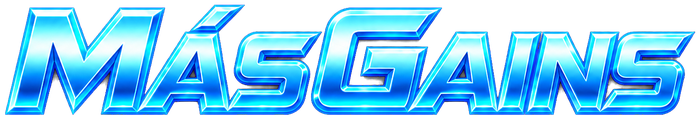
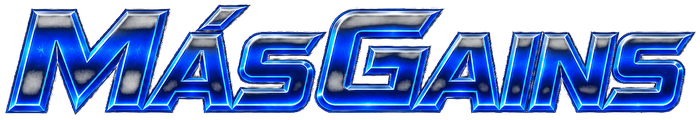
Gym: AI workout planner + training preferences; deeper electric wordmark
- New AI Workout Planner (from the Plans sheet): choose muscle groups or a
  Push/Pull/Legs/Upper/Lower/Full split, focus and exercise count. It sends the
  model your training history (recent sessions, top sets, freshness per area),
  goal direction, age, experience, equipment and preferences, and returns a
  structured session (ordered exercises, sets, reps, rest, rationale). Suggested
  names are matched to the exercise DB via the smart search, then you can Start
  it (loads into today's workout), Save as plan, or Regenerate.
- Profile gains training experience, available-equipment chips and a
  preferences/avoid note that feed the planner.
- Recoloured the electric wordmark to the deeper blue of the badge; SW cache
  bumped to mg-v3.

diff --git a/index.html b/index.html
@@ -482,6 +482,12 @@ if("serviceWorker" in navigator && location.protocol.indexOf("http")===0){
   .theme-select{flex:1;min-width:0;background:var(--surface-2);border:1px solid var(--border);color:var(--text);border-radius:11px;padding:12px;font-family:var(--ff-ui);font-size:15px;font-weight:600;outline:none;cursor:pointer;-webkit-appearance:none;appearance:none;
     background-image:linear-gradient(45deg,transparent 50%,var(--muted) 50%),linear-gradient(135deg,var(--muted) 50%,transparent 50%);background-position:calc(100% - 18px) center,calc(100% - 13px) center;background-size:5px 5px,5px 5px;background-repeat:no-repeat}
   .theme-select:focus{border-color:color-mix(in srgb,var(--protein) 55%,var(--border))}
+  .chips{display:flex;flex-wrap:wrap;gap:7px}
+  .chip{background:var(--surface-2);border:1px solid var(--border);color:var(--muted);border-radius:999px;padding:8px 13px;font-family:var(--ff-ui);font-weight:600;font-size:12.5px;cursor:pointer;-webkit-tap-highlight-color:transparent}
+  .chip.on{background:color-mix(in srgb,var(--protein) 16%,transparent);border-color:color-mix(in srgb,var(--protein) 55%,var(--border));color:var(--protein)}
+  .chip:active{transform:scale(.97)}
+  #manageSheet textarea,.field textarea,.sheet textarea{width:100%;box-sizing:border-box;background:var(--surface-2);border:1px solid var(--border);color:var(--text);border-radius:11px;padding:11px;font-family:var(--ff-ui);font-size:15px;line-height:1.4;outline:none;resize:vertical}
+  #manageSheet textarea:focus,.sheet textarea:focus{border-color:color-mix(in srgb,var(--protein) 55%,var(--border))}
   .theme-sw{position:relative;width:38px;height:38px;border-radius:9px;flex:none;overflow:hidden;border:1px solid rgba(255,255,255,.08);display:block}
   .theme-sw i{position:absolute;border-radius:2px;display:block}
   .theme-sw i.a{width:16px;height:5px;left:7px;bottom:13px}
@@ -916,6 +922,27 @@ if("serviceWorker" in navigator && location.protocol.indexOf("http")===0){
   #plansList .plan-item .pi-start{flex:none;background:var(--grad);color:var(--on-accent);border:none;border-radius:10px;padding:9px 15px;font-family:var(--ff-ui);font-weight:700;font-size:12px;letter-spacing:.03em;text-transform:uppercase;cursor:pointer;box-shadow:var(--glow)}
   #plansList .plan-item .pi-start:active{filter:brightness(.94)}
   #plansList .plan-empty{text-align:center;color:var(--faint);font-size:12.5px;padding:14px 0;line-height:1.6}
+  /* AI planner */
+  .ai-plan-cta{width:100%;display:flex;align-items:center;gap:12px;background:linear-gradient(120deg,color-mix(in srgb,var(--protein) 20%,var(--surface)),var(--surface));border:1px solid color-mix(in srgb,var(--protein) 45%,var(--border));border-radius:14px;padding:13px 14px;cursor:pointer;text-align:left;margin-bottom:12px;-webkit-tap-highlight-color:transparent}
+  .ai-plan-cta:active{filter:brightness(.97)}
+  .ai-plan-cta .apc-spark{flex:none;width:32px;height:32px;border-radius:9px;display:grid;place-items:center;background:var(--grad);color:var(--on-accent);font-size:16px;box-shadow:var(--glow)}
+  .ai-plan-cta .apc-txt{flex:1;min-width:0;display:flex;flex-direction:column;gap:2px}
+  .ai-plan-cta .apc-txt b{font-size:14px;font-weight:700;color:var(--text)}
+  .ai-plan-cta .apc-txt i{font-style:normal;font-size:11.5px;color:var(--muted)}
+  .ai-plan-cta .apc-go{flex:none;color:var(--protein);font-size:22px;font-weight:700}
+  .apl-lbl{display:block;font-size:11px;letter-spacing:.05em;text-transform:uppercase;color:var(--muted);font-weight:700;margin:0 2px 8px}
+  #aiPlanResult .apr-head{margin:0 2px 10px}
+  #aiPlanResult .apr-title{font-family:var(--ff-ui);font-weight:800;font-size:18px;color:var(--text)}
+  #aiPlanResult .apr-why{font-size:12.5px;color:var(--muted);line-height:1.45;margin-top:5px}
+  .apr-ex{display:flex;gap:11px;background:var(--surface);border:1px solid var(--border);border-radius:13px;padding:11px 12px;margin-bottom:8px}
+  .apr-ex .apr-n{flex:none;width:24px;height:24px;border-radius:7px;background:var(--surface-2);color:var(--muted);font-family:var(--ff-num);font-weight:700;font-size:12px;display:grid;place-items:center;margin-top:1px}
+  .apr-ex .apr-main{flex:1;min-width:0}
+  .apr-ex .apr-name{font-weight:700;font-size:14px;letter-spacing:-.01em;white-space:nowrap;overflow:hidden;text-overflow:ellipsis}
+  .apr-ex .apr-sets{font-family:var(--ff-num);font-size:12px;color:var(--protein);font-weight:700;margin-top:2px}
+  .apr-ex .apr-note{font-size:11.5px;color:var(--muted);margin-top:3px;line-height:1.4}
+  .apr-ex .apr-swap{flex:none;color:var(--faint);font-size:10px;font-family:var(--ff-num);align-self:center}
+  .apr-actions{display:grid;grid-template-columns:1fr 1fr;gap:9px;margin-top:14px}
+  .apr-actions .ghost{margin:0}
   #plansNew{width:100%;background:transparent;border:1px dashed var(--border);color:var(--protein);border-radius:12px;padding:13px;font-family:var(--ff-ui);font-weight:700;font-size:13px;cursor:pointer;margin-top:10px;letter-spacing:.02em}
   #plansNew:active{background:var(--surface-2)}
   #planExRows{display:flex;flex-direction:column;gap:7px;margin-top:2px}
@@ -1884,7 +1911,24 @@ if("serviceWorker" in navigator && location.protocol.indexOf("http")===0){
           </select></div>
         </div>
         <div class="field" style="margin-top:8px"><label>Goal weight (kg) - optional</label><input type="number" inputmode="decimal" id="pGoalW" placeholder="e.g. 82"></div>
-        <div class="mono-note" style="text-align:left;margin:8px 2px 10px">Saving weight also logs it to today on the Body tab. Sex and activity drive the maintenance estimate.</div>
+        <div class="field" style="margin-top:10px"><label>Training experience</label><select id="pExp">
+          <option value="beginner">Beginner</option>
+          <option value="intermediate" selected>Intermediate</option>
+          <option value="advanced">Advanced</option>
+        </select></div>
+        <div style="margin-top:12px"><label style="display:block;font-size:11px;letter-spacing:.04em;text-transform:uppercase;color:var(--muted);font-weight:700;margin-bottom:7px">Equipment you have</label>
+          <div class="chips" id="pEquip">
+            <button type="button" class="chip" data-equip="barbell">Barbell</button>
+            <button type="button" class="chip" data-equip="dumbbell">Dumbbells</button>
+            <button type="button" class="chip" data-equip="machine">Machines</button>
+            <button type="button" class="chip" data-equip="cable">Cables</button>
+            <button type="button" class="chip" data-equip="bodyweight">Bodyweight</button>
+            <button type="button" class="chip" data-equip="kettlebell">Kettlebells</button>
+            <button type="button" class="chip" data-equip="bands">Bands</button>
+          </div>
+        </div>
+        <div class="field" style="margin-top:12px"><label>Preferences / anything to avoid</label><textarea id="pTrainNotes" rows="2" placeholder="e.g. no heavy lower-back loading, prefer machines for legs, bad right shoulder"></textarea></div>
+        <div class="mono-note" style="text-align:left;margin:8px 2px 10px">Saving weight also logs it to today on the Body tab. Experience, equipment and preferences guide the AI workout planner.</div>
         <button type="button" class="ghost" id="saveProfile">Save profile</button>
         <button type="button" class="ghost" id="obReplay" style="margin-top:8px">Run setup walkthrough</button>
       </div>
@@ -2141,9 +2185,64 @@ if("serviceWorker" in navigator && location.protocol.indexOf("http")===0){
     <button class="close" data-close>Close</button>
   </div>
   <div class="sheet-body">
+    <button type="button" class="ai-plan-cta" id="aiPlanOpen"><span class="apc-spark">✦</span><span class="apc-txt"><b>Build a plan with AI</b><i>Tailored to your history, goals and preferences</i></span><span class="apc-go">›</span></button>
     <div class="mono-note" style="text-align:left;margin:0 4px 10px">Build a plan once - its exercises, sets and target reps. Then load it onto any day and just punch in the weight.</div>
     <div id="plansList"></div>
     <button id="plansNew">+ New plan</button>
+  </div>
+</div>
+
+<div class="sheet" id="aiPlanSheet" role="dialog" aria-modal="true">
+  <div class="grab"></div>
+  <div class="sheet-head">
+    <h2>AI Workout Planner</h2>
+    <button class="close" data-close>Close</button>
+  </div>
+  <div class="sheet-body">
+    <div id="aiPlanSetup">
+      <div class="mono-note" style="text-align:left;margin:0 2px 12px">Pick what you want to train. The planner reads your past workouts, goals, age and preferences (set in Profile) and builds today's session - exercises, order, sets and reps.</div>
+      <label class="apl-lbl">Quick split</label>
+      <div class="chips" id="aiPresets" style="margin-bottom:14px">
+        <button type="button" class="chip" data-preset="push">Push</button>
+        <button type="button" class="chip" data-preset="pull">Pull</button>
+        <button type="button" class="chip" data-preset="legs">Legs</button>
+        <button type="button" class="chip" data-preset="upper">Upper</button>
+        <button type="button" class="chip" data-preset="lower">Lower</button>
+        <button type="button" class="chip" data-preset="full">Full body</button>
+      </div>
+      <label class="apl-lbl">Muscle groups</label>
+      <div class="chips" id="aiParts" style="margin-bottom:14px">
+        <button type="button" class="chip" data-part="chest">Chest</button>
+        <button type="button" class="chip" data-part="back">Back</button>
+        <button type="button" class="chip" data-part="shoulders">Shoulders</button>
+        <button type="button" class="chip" data-part="biceps">Biceps</button>
+        <button type="button" class="chip" data-part="triceps">Triceps</button>
+        <button type="button" class="chip" data-part="quads">Quads</button>
+        <button type="button" class="chip" data-part="hamstrings">Hamstrings</button>
+        <button type="button" class="chip" data-part="glutes">Glutes</button>
+        <button type="button" class="chip" data-part="calves">Calves</button>
+        <button type="button" class="chip" data-part="core">Core</button>
+      </div>
+      <div style="display:grid;grid-template-columns:1fr 1fr;gap:10px">
+        <div class="field"><label>Focus</label><select id="aiFocus">
+          <option value="auto" selected>Auto (from goal)</option>
+          <option value="strength">Strength</option>
+          <option value="hypertrophy">Hypertrophy</option>
+          <option value="endurance">Endurance</option>
+        </select></div>
+        <div class="field"><label>Exercises</label><select id="aiCount">
+          <option value="auto" selected>Auto</option>
+          <option value="4">4</option>
+          <option value="5">5</option>
+          <option value="6">6</option>
+          <option value="7">7</option>
+          <option value="8">8</option>
+        </select></div>
+      </div>
+      <div class="photo-tray-status" id="aiPlanStatus" style="margin:10px 2px 0"></div>
+      <button type="button" class="primary" id="aiPlanBuild" style="margin-top:14px">Build my plan</button>
+    </div>
+    <div id="aiPlanResult" hidden></div>
   </div>
 </div>
 
@@ -2753,7 +2852,7 @@ if("serviceWorker" in navigator && location.protocol.indexOf("http")===0){
 
   /* ---------- sheet open/close ---------- */
   var backdrop=document.getElementById("backdrop");
-  var ALL_SHEETS=["addSheet","manageSheet","editSheet","statsSheet","measureSheet","scheduleSheet","exSheet","exHistSheet","plansSheet","planEditSheet","stackSheet","stackItemSheet","formSheet"];
+  var ALL_SHEETS=["addSheet","manageSheet","editSheet","statsSheet","measureSheet","scheduleSheet","exSheet","exHistSheet","plansSheet","planEditSheet","aiPlanSheet","stackSheet","stackItemSheet","formSheet"];
   function openSheet(id){
     ALL_SHEETS.forEach(function(s){ var el=document.getElementById(s); if(el) el.classList.remove("open"); });
     backdrop.classList.add("open");
@@ -3012,7 +3111,13 @@ if("serviceWorker" in navigator && location.protocol.indexOf("http")===0){
     document.getElementById("pSex").value = profile.sex || "male";
     document.getElementById("pAct").value = String(profile.activity || 1.725);
     var gw=document.getElementById("pGoalW"); if(gw) gw.value = (profile.goalWeight!=null)?profile.goalWeight:"";
+    var exp=document.getElementById("pExp"); if(exp) exp.value=profile.experience||"intermediate";
+    var eq=document.getElementById("pEquip");
+    if(eq){ var have=profile.equip||["barbell","dumbbell","machine","cable","bodyweight"];
+      [].forEach.call(eq.querySelectorAll("[data-equip]"),function(b){ b.classList.toggle("on", have.indexOf(b.getAttribute("data-equip"))>=0); }); }
+    var tn=document.getElementById("pTrainNotes"); if(tn) tn.value=profile.trainNotes||"";
   }
+  (function(){ var eq=document.getElementById("pEquip"); if(eq) eq.addEventListener("click",function(e){ var b=e.target.closest("[data-equip]"); if(b) b.classList.toggle("on"); }); })();
   document.getElementById("saveProfile").addEventListener("click",function(){
     var h=r0(num(document.getElementById("pHeight").value)), a=r0(num(document.getElementById("pAge").value));
     if(h>0) profile.height=h;
@@ -3020,6 +3125,10 @@ if("serviceWorker" in navigator && location.protocol.indexOf("http")===0){
     profile.sex=document.getElementById("pSex").value;
     profile.activity=parseFloat(document.getElementById("pAct").value)||1.725;
     var gw=num(document.getElementById("pGoalW").value); profile.goalWeight = gw>0 ? r1(gw) : null;
+    var exp=document.getElementById("pExp"); if(exp) profile.experience=exp.value;
+    var eq=document.getElementById("pEquip");
+    if(eq) profile.equip=[].filter.call(eq.querySelectorAll("[data-equip]"),function(b){return b.classList.contains("on");}).map(function(b){return b.getAttribute("data-equip");});
+    var tn=document.getElementById("pTrainNotes"); if(tn) profile.trainNotes=tn.value.trim();
     saveProfile();
     var w=num(document.getElementById("pWeight").value);
     if(w>0){ var today=keyOf(new Date()); if(!body[today]) body[today]={}; body[today].weight=r1(w); saveBody(); }
@@ -4941,6 +5050,142 @@ if("serviceWorker" in navigator && location.protocol.indexOf("http")===0){
     if(!exs.length) return;
     openPlanEditor(null, {name:"", exercises:exs});   // pre-filled editor: name it, tweak, save
   }
+  /* ---------- AI workout planner ---------- */
+  var EX_BP=(function(){ var m={}; EX_DB.forEach(function(r){ m[r[0].toLowerCase()]=r[1]; }); return m; })();
+  var AI_PRESET_PARTS={
+    push:["chest","shoulders","triceps"], pull:["back","biceps"],
+    legs:["quads","hamstrings","glutes","calves"],
+    upper:["chest","back","shoulders","biceps","triceps"],
+    lower:["quads","hamstrings","glutes","calves"],
+    full:["chest","back","shoulders","quads","hamstrings","core"]
+  };
+  var aiPlanParts=[], aiPlanDraft=null;
+  function aiSetStatus(m,cls){ var el=document.getElementById("aiPlanStatus"); if(el){ el.textContent=m||""; el.className="photo-tray-status"+(cls?(" "+cls):""); } }
+  function aiRepsNum(s){ var m=String(s).match(/\d+/); return m?parseInt(m[0],10):10; }
+  // best DB match for an AI-suggested name (reuses the smart exercise search scorer)
+  function bestExMatch(name){
+    var q=String(name||"").toLowerCase().trim(); if(!q) return name;
+    var toks=exTokens(q); if(!toks.length) toks=[q];
+    var best=name, bestS=-1;
+    for(var i=0;i<EX_DB_NAMES.length;i++){
+      var n=EX_DB_NAMES[i], hay=n.toLowerCase(), words=hay.split(/[^a-z0-9]+/).filter(Boolean);
+      var s=exScore(hay, words, toks, q);
+      if(s>bestS){ bestS=s; best=n; }
+    }
+    return bestS>=95 ? best : name;
+  }
+  function aiTrainingSummary(){
+    var keys=Object.keys(workouts).filter(function(k){ return (workouts[k].exercises||[]).length; }).sort();
+    if(!keys.length) return "No previous workouts logged yet - this is a fresh start.";
+    var recent=keys.slice(-10), lines=[];
+    recent.slice().reverse().forEach(function(k){
+      var exs=(workouts[k].exercises||[]).map(function(e){
+        var done=(e.sets||[]).filter(function(s){return s.done;}); var use=done.length?done:(e.sets||[]);
+        var top=null; use.forEach(function(s){ var w=num(s.w),r=num(s.reps); if(w>0&&(!top||w>top.w)) top={w:w,r:r}; });
+        return e.name+(top?(" "+top.w+"x"+top.r):"");
+      });
+      lines.push(k+": "+exs.join(", "));
+    });
+    var today=new Date(); today.setHours(0,0,0,0); var lastByBp={};
+    keys.forEach(function(k){ (workouts[k].exercises||[]).forEach(function(e){ var bp=EX_BP[e.name.toLowerCase()]; if(bp && (!lastByBp[bp]||k>lastByBp[bp])) lastByBp[bp]=k; }); });
+    var fresh=Object.keys(lastByBp).map(function(bp){ return bp+" "+Math.round((today-dateFromKey(lastByBp[bp]))/86400000)+"d ago"; });
+    return "Recent sessions (newest first):\n"+lines.join("\n")+(fresh.length?("\n\nLast trained: "+fresh.join(", ")):"");
+  }
+  function aiGoalLine(){
+    try{ var r=recommendTargets("steady"); var dir=r.dir<0?"fat loss / cut":(r.dir>0?"lean muscle gain":"maintain / recomp");
+      return "Goal: "+dir+(r.goal!=null?(" toward "+r1(r.goal)+"kg"):"")+"."; }catch(e){ return ""; }
+  }
+  function aiBuildPrompt(){
+    var focus=document.getElementById("aiFocus").value, count=document.getElementById("aiCount").value;
+    var equip=(profile.equip&&profile.equip.length)?profile.equip.join(", "):"barbell, dumbbell, machine, cable, bodyweight";
+    var sys="You are an expert strength and hypertrophy coach building ONE gym session. "+
+      "Return ONLY strict minified JSON, no prose or markdown. Shape: "+
+      '{"name":"short session title","summary":"1-2 sentence rationale","exercises":[{"name":"standard exercise name","sets":number,"reps":"target e.g. 8-10 or 5","rest":"e.g. 90s","why":"short reason"}]}. '+
+      "Order compound/heavier lifts first, isolation later. Use common standard exercise names (so they map to a database). "+
+      "Only use equipment the athlete has. Respect their preferences and anything to avoid. Match sets/reps to the focus and experience level. Progress from their history without overtraining recently-worked areas.";
+    var user="Build today's session.\n"+
+      "Muscle groups: "+(aiPlanParts.length?aiPlanParts.join(", "):"balanced full body")+".\n"+
+      "Focus: "+focus+". Exercises: "+(count==="auto"?"pick a sensible number, usually 4-6":count)+".\n"+
+      "Athlete: age "+(profile.age!=null?profile.age:"unknown")+", sex "+(profile.sex||"unknown")+", experience "+(profile.experience||"intermediate")+". "+aiGoalLine()+"\n"+
+      "Equipment available: "+equip+".\n"+
+      (profile.trainNotes?("Preferences / avoid: "+profile.trainNotes+"\n"):"")+
+      "\nTraining history:\n"+aiTrainingSummary()+"\n\nReturn the JSON only.";
+    return {sys:sys, user:user};
+  }
+  function aiParsePlan(txt){
+    var raw=String(txt).replace(/```json/gi,"").replace(/```/g,"").trim();
+    var s=raw.indexOf("{"); if(s>=0) raw=raw.slice(s);
+    var e=raw.lastIndexOf("}"); if(e>=0) raw=raw.slice(0,e+1);
+    var o=null; try{ o=JSON.parse(raw); }catch(_){ o=null; }
+    if(!o||!o.exercises||!o.exercises.length) return null;
+    var exs=o.exercises.map(function(x){
+      var nm=bestExMatch(x.name);
+      return {name:nm, aiName:x.name, sets:Math.max(1,parseInt(x.sets,10)||3), reps:(x.reps!=null?String(x.reps):"10"), rest:x.rest||"", why:x.why||""};
+    });
+    return {name:o.name||"AI session", summary:o.summary||"", exercises:exs};
+  }
+  function aiRenderPlan(plan){
+    aiPlanDraft=plan;
+    var html="<div class='apr-head'><div class='apr-title'>"+esc(plan.name)+"</div>"+(plan.summary?"<div class='apr-why'>"+esc(plan.summary)+"</div>":"")+"</div>";
+    html+=plan.exercises.map(function(e,i){
+      var swap=(e.aiName && e.aiName.toLowerCase()!==e.name.toLowerCase())?"<span class='apr-swap'>matched</span>":"";
+      return "<div class='apr-ex'><span class='apr-n'>"+(i+1)+"</span><div class='apr-main'><div class='apr-name'>"+esc(e.name)+"</div>"+
+        "<div class='apr-sets'>"+e.sets+" × "+esc(e.reps)+(e.rest?(" · "+esc(e.rest)+" rest"):"")+"</div>"+
+        (e.why?"<div class='apr-note'>"+esc(e.why)+"</div>":"")+"</div>"+swap+"</div>";
+    }).join("");
+    html+="<div class='apr-actions'><button type='button' class='ghost' id='aiPlanRegen'>Regenerate</button><button type='button' class='ghost' id='aiPlanSave'>Save as plan</button></div>"+
+      "<button type='button' class='primary' id='aiPlanStart' style='margin-top:9px'>Start this workout</button>";
+    var box=document.getElementById("aiPlanResult"); box.innerHTML=html; box.hidden=false;
+    document.getElementById("aiPlanSetup").hidden=true;
+  }
+  function aiPlanToPlanObj(){
+    if(!aiPlanDraft) return null;
+    return {name:aiPlanDraft.name, exercises:aiPlanDraft.exercises.map(function(e){ return {name:e.name, sets:e.sets, reps:aiRepsNum(e.reps)}; })};
+  }
+  async function aiRunPlanner(){
+    document.getElementById("aiPlanResult").hidden=true;
+    document.getElementById("aiPlanSetup").hidden=false;
+    aiSetStatus("Building your plan…");
+    var btn=document.getElementById("aiPlanBuild"); if(btn){ btn.disabled=true; btn.textContent="Thinking…"; }
+    try{
+      var p=aiBuildPrompt();
+      var out=await aiComplete([{role:"user",content:p.user}], 900, p.sys);
+      if(out==null){ aiSetStatus("Add your OpenRouter API key in Settings → AI features.","err"); return; }
+      var plan=aiParsePlan(out);
+      if(!plan){ aiSetStatus("Couldn't read a plan from the response. Try again.","err"); return; }
+      aiSetStatus(""); aiRenderPlan(plan);
+    }catch(err){ aiSetStatus("Error: "+(err.message||err),"err"); }
+    finally{ if(btn){ btn.disabled=false; btn.textContent="Build my plan"; } }
+  }
+  function openAiPlanner(){
+    aiPlanParts=[]; aiPlanDraft=null;
+    var res=document.getElementById("aiPlanResult"); res.hidden=true; res.innerHTML="";
+    document.getElementById("aiPlanSetup").hidden=false;
+    [].forEach.call(document.querySelectorAll("#aiParts .chip, #aiPresets .chip"),function(c){ c.classList.remove("on"); });
+    aiSetStatus("");
+    openSheet("aiPlanSheet");
+  }
+  document.getElementById("aiPlanOpen").addEventListener("click", openAiPlanner);
+  document.getElementById("aiPresets").addEventListener("click", function(e){
+    var b=e.target.closest("[data-preset]"); if(!b) return;
+    var parts=AI_PRESET_PARTS[b.getAttribute("data-preset")]||[]; aiPlanParts=parts.slice();
+    [].forEach.call(document.querySelectorAll("#aiParts .chip"),function(c){ c.classList.toggle("on", parts.indexOf(c.getAttribute("data-part"))>=0); });
+    [].forEach.call(document.querySelectorAll("#aiPresets .chip"),function(c){ c.classList.toggle("on", c===b); });
+  });
+  document.getElementById("aiParts").addEventListener("click", function(e){
+    var b=e.target.closest("[data-part]"); if(!b) return;
+    var part=b.getAttribute("data-part"), i=aiPlanParts.indexOf(part);
+    if(i>=0) aiPlanParts.splice(i,1); else aiPlanParts.push(part);
+    b.classList.toggle("on", aiPlanParts.indexOf(part)>=0);
+    [].forEach.call(document.querySelectorAll("#aiPresets .chip"),function(c){ c.classList.remove("on"); });
+  });
+  document.getElementById("aiPlanBuild").addEventListener("click", aiRunPlanner);
+  document.getElementById("aiPlanResult").addEventListener("click", function(e){
+    if(e.target.closest("#aiPlanRegen")){ aiRunPlanner(); return; }
+    if(e.target.closest("#aiPlanSave")){ var po=aiPlanToPlanObj(); if(po){ openPlanEditor(null, po); } return; }
+    if(e.target.closest("#aiPlanStart")){ var po=aiPlanToPlanObj(); if(po){ applyPlan(po); closeSheets(); var t=document.querySelector('.tabbtn[data-tab="lift"]'); if(t) t.click(); } return; }
+  });
+
   document.getElementById("wkPlansBtn").addEventListener("click", openPlans);
   document.getElementById("plansNew").addEventListener("click", function(){ openPlanEditor(null); });
   document.getElementById("plansList").addEventListener("click", function(e){

diff --git a/sw.js b/sw.js
@@ -1,5 +1,5 @@
 /* MásGains service worker - offline shell + runtime asset cache */
-var VERSION = "mg-v2";
+var VERSION = "mg-v3";
 var CORE = [
   "./", "index.html", "manifest.webmanifest",
   "assets/icon.png", "assets/icon-192.png", "assets/icon-512.png", "assets/icon-180.png",
